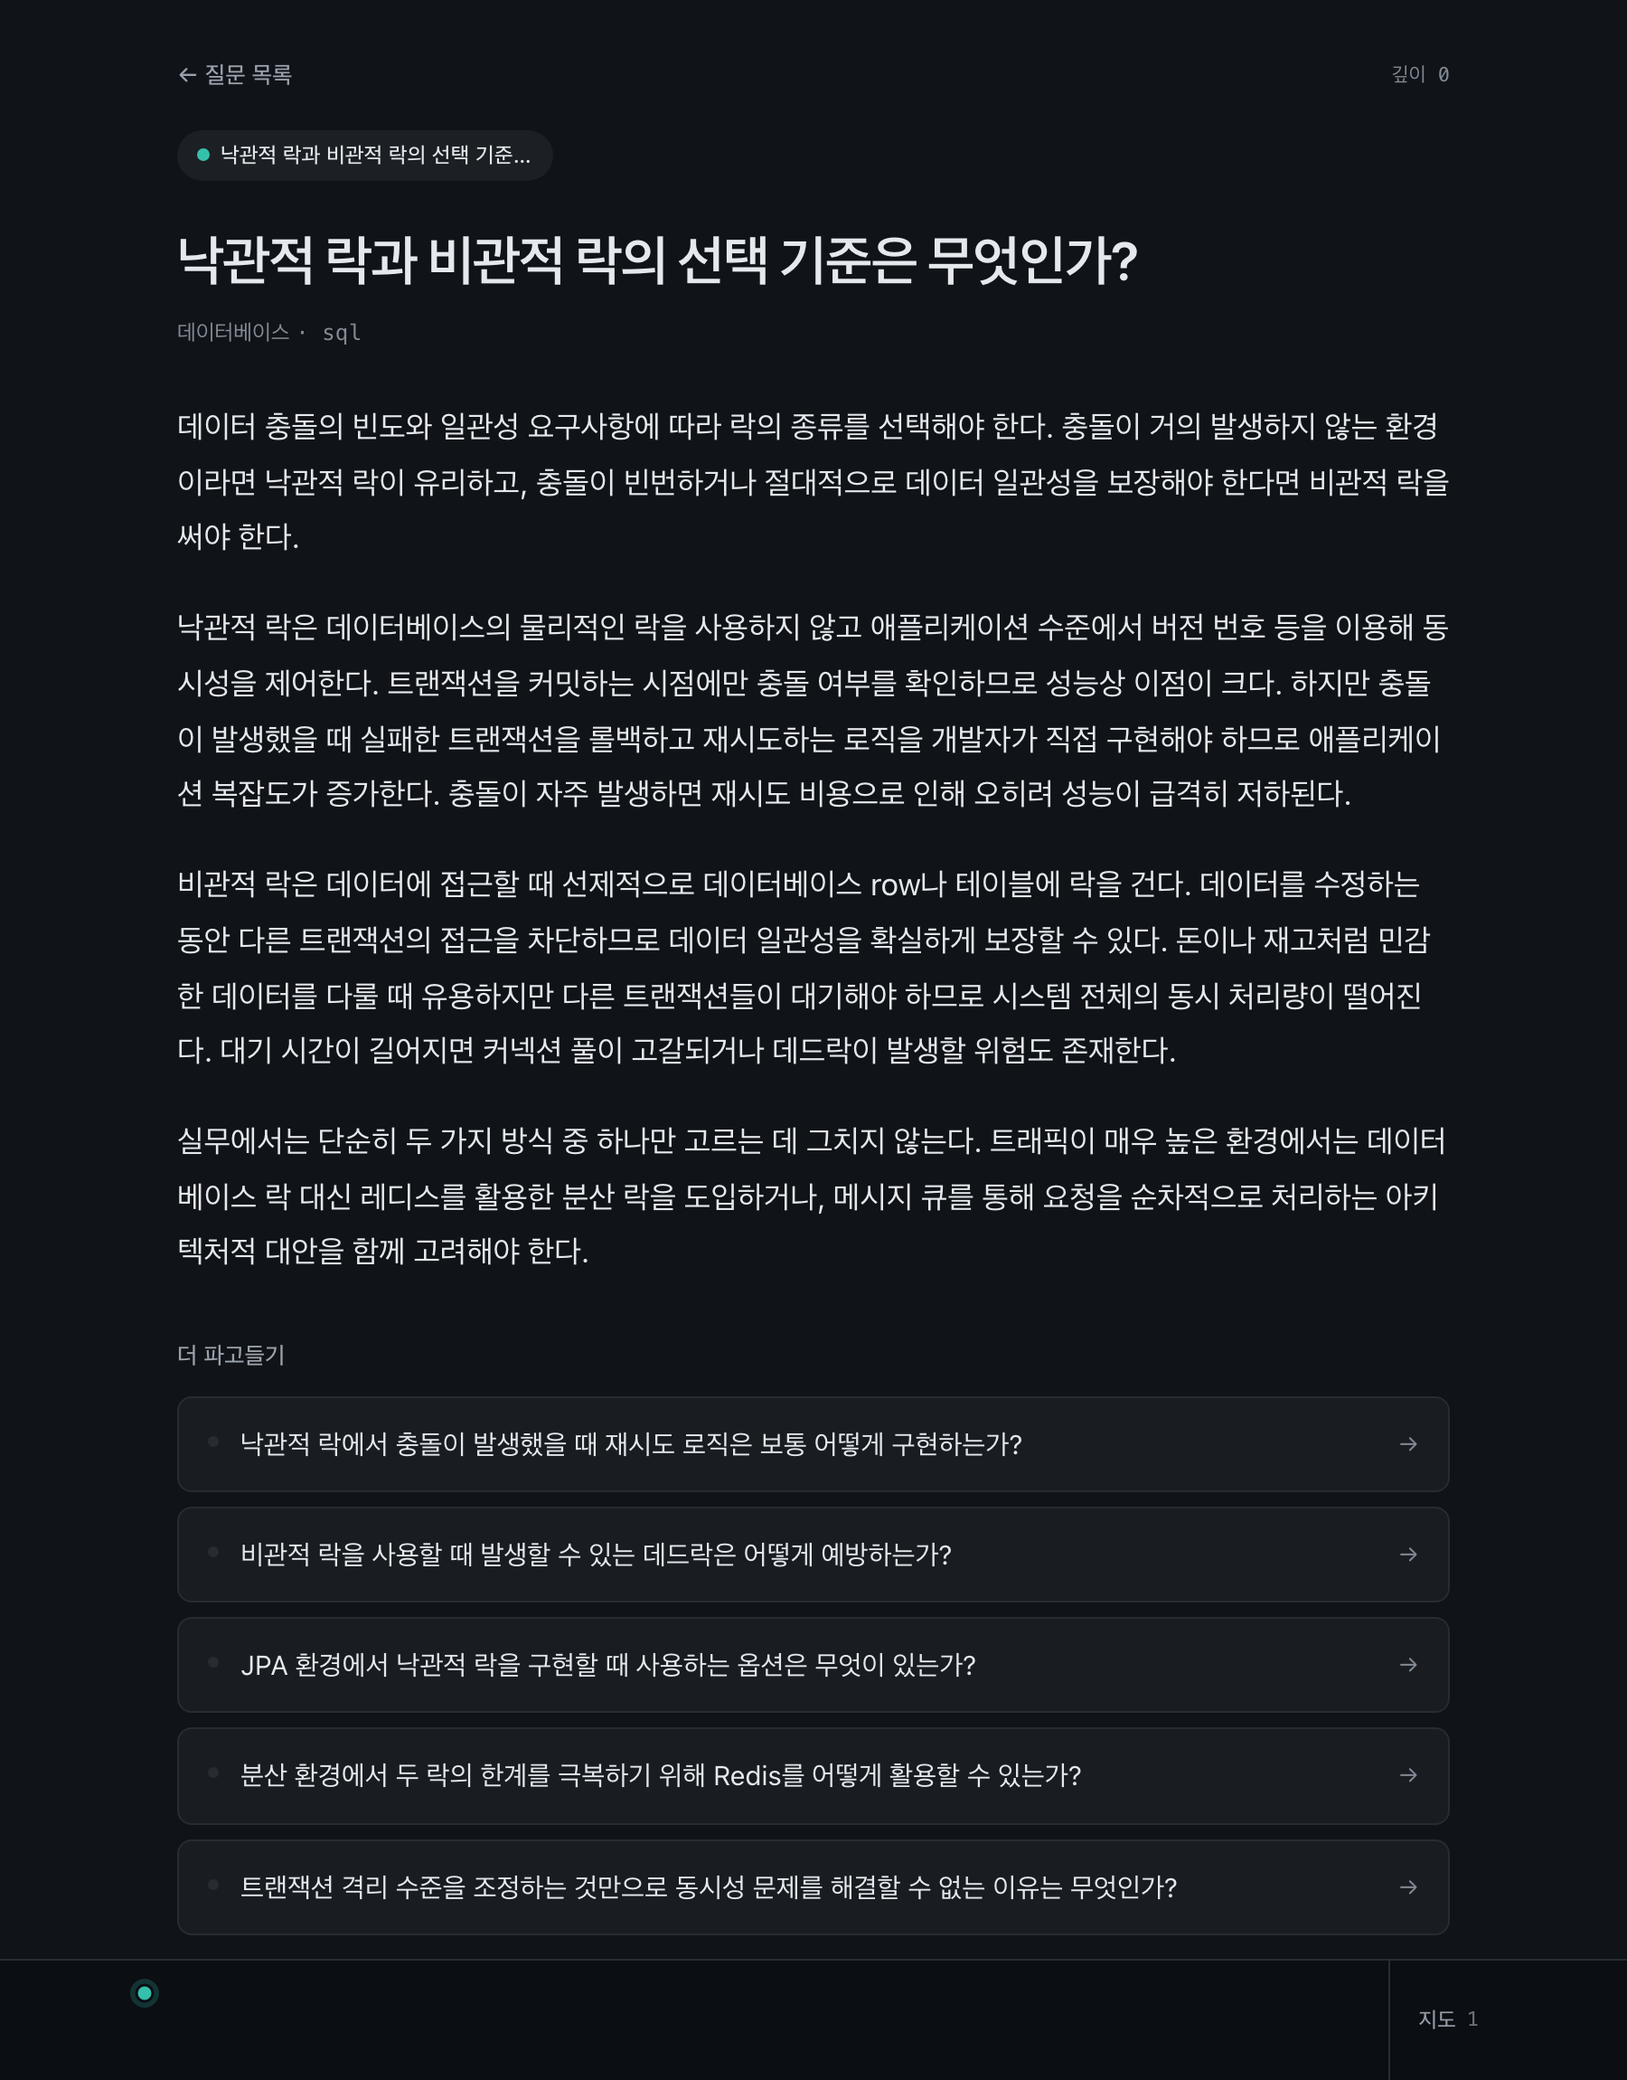
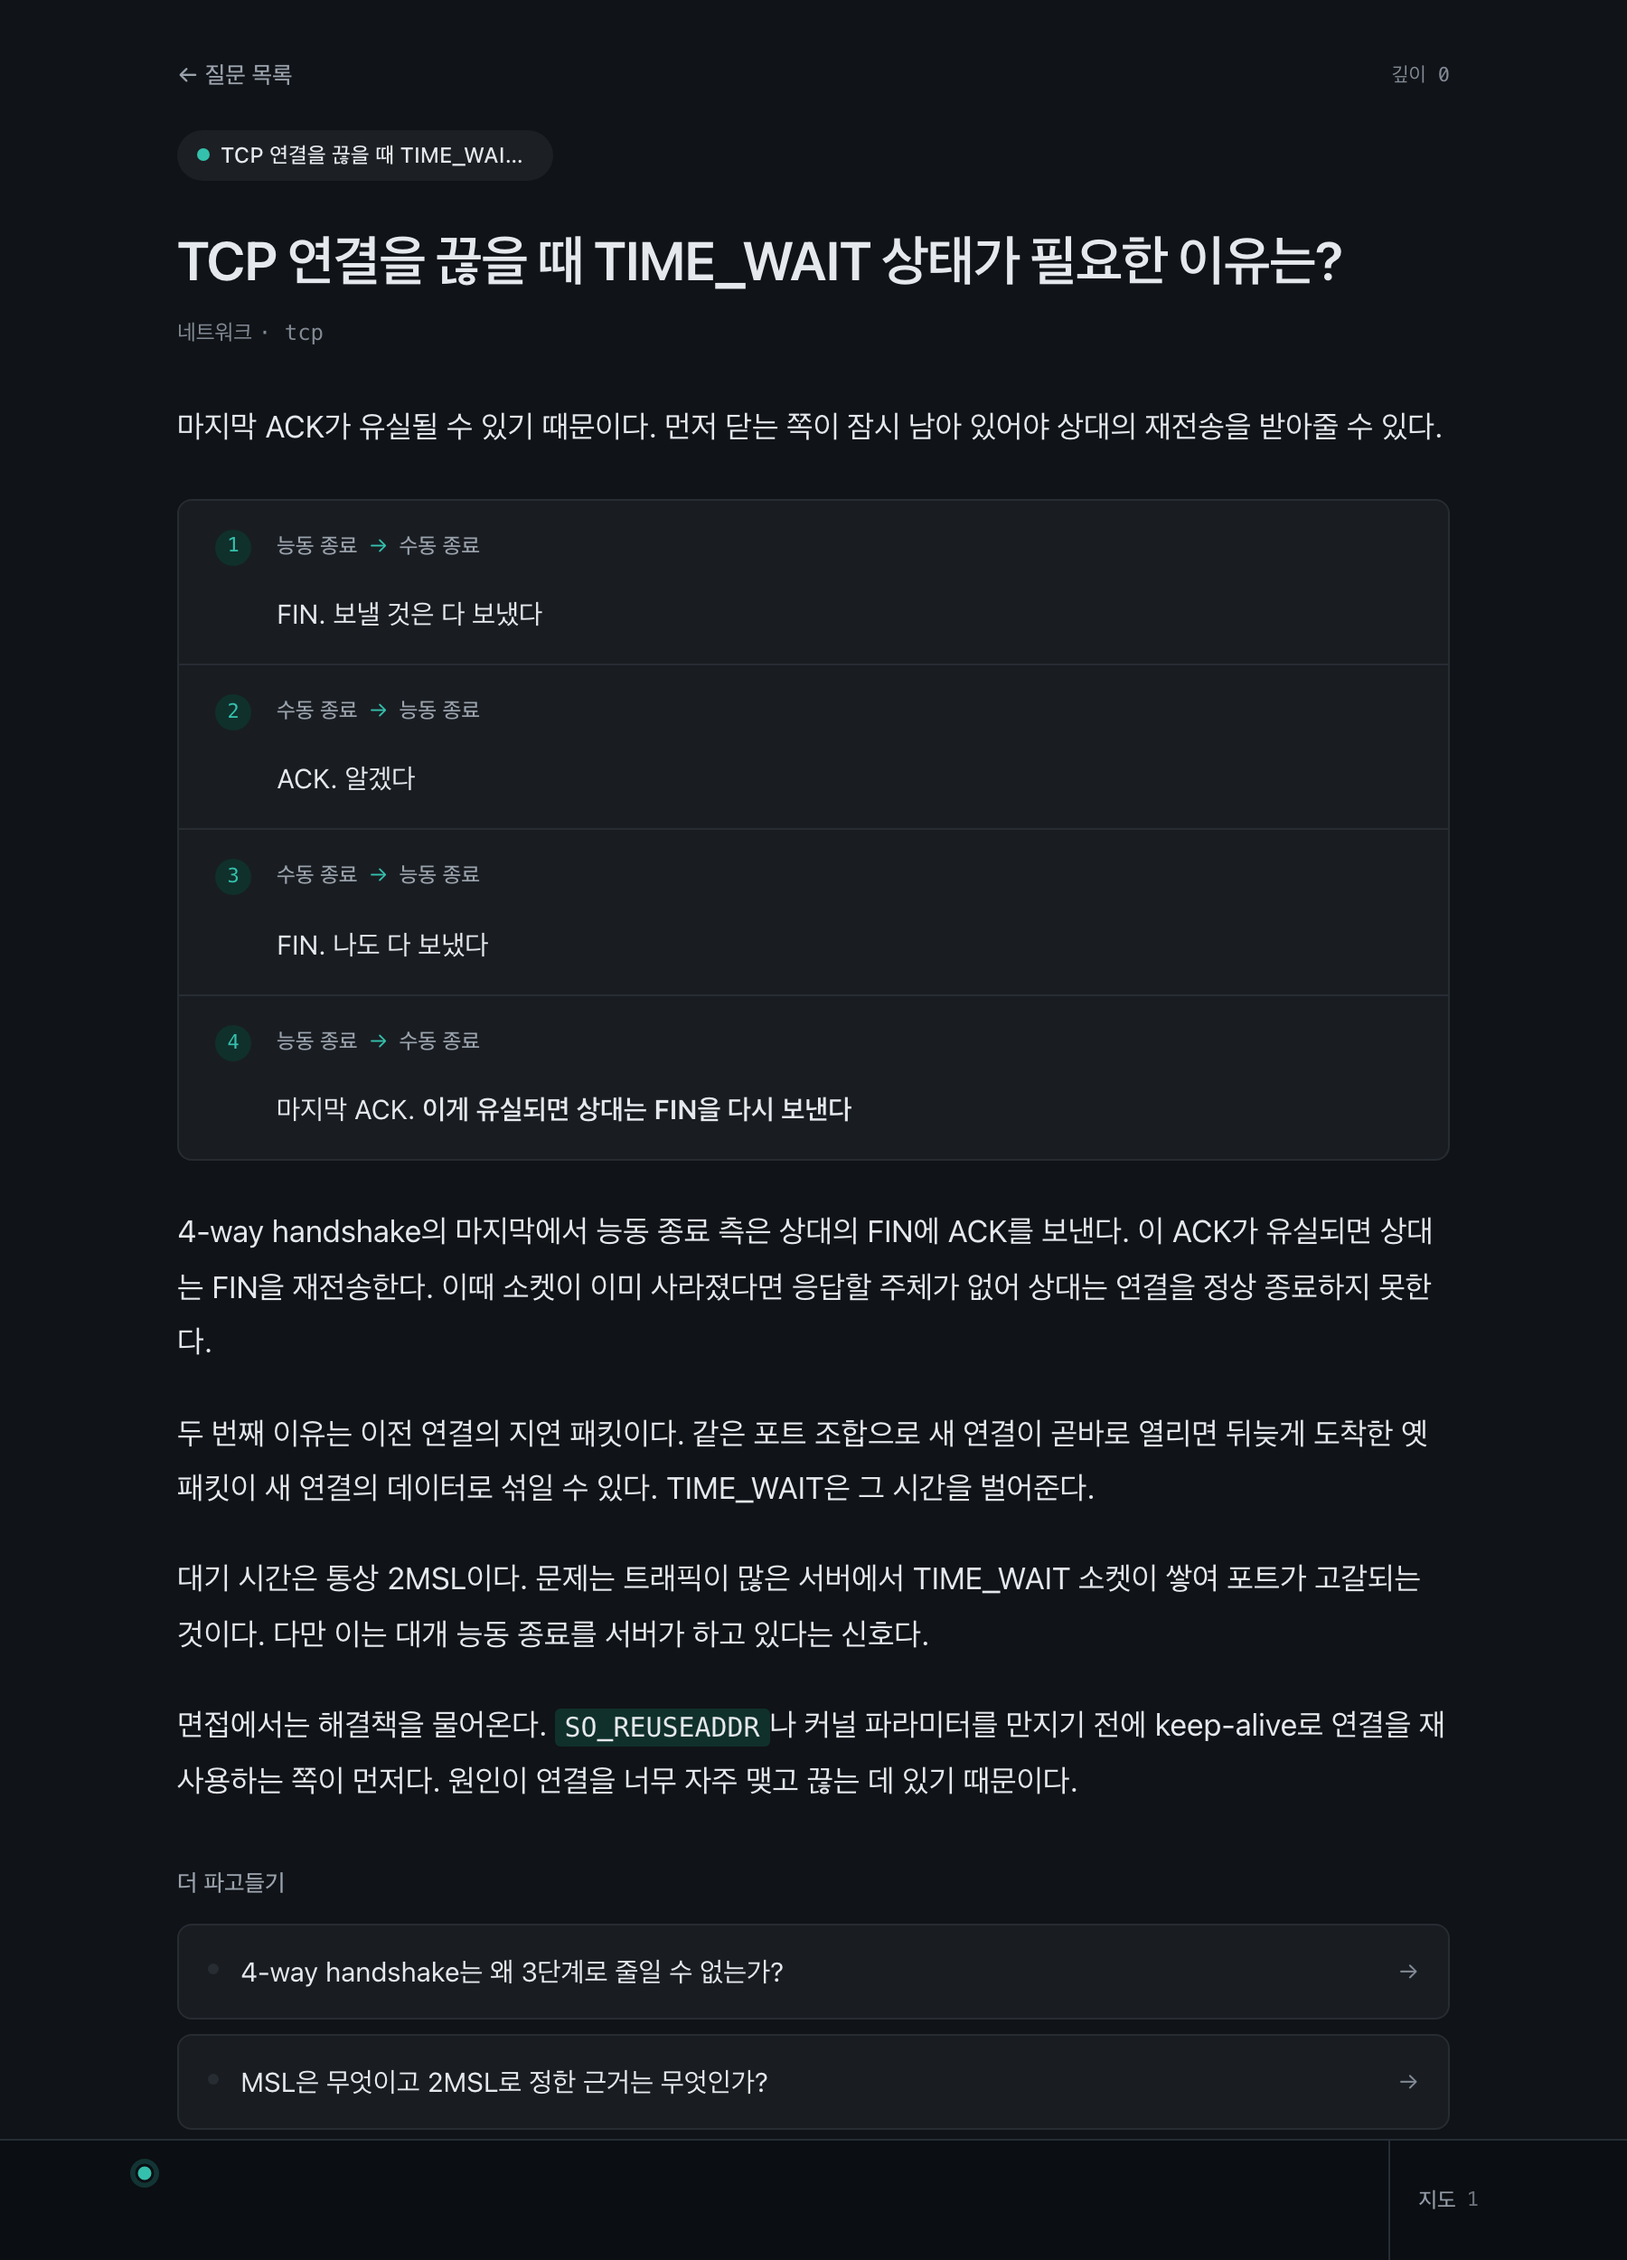
docs: 도식을 README에 싣고 스크린샷을 다시 찍는다
이미지가 전부 도식 이전 화면이었다. 읽기 뷰는 4-way handshake가 순서 도식으로
그려진 화면으로, 새로 넣은 도식 예시는 해시 테이블 해설로 바꿨다.

Mermaid를 안 쓴 이유와 파서가 본문을 먹지 않는다는 원칙을 적었다. 도식 채택률
실측(10/12, 기호 유출 0/12)도 별도 절로 넣었다 — 프롬프트를 고쳤다는 말만으로는
모델이 따르는지 알 수 없다.

Claude-Session: https://claude.ai/code/session_01XAxQJMEygFcXQwhKPxMg5n

diff --git a/README.md b/README.md
@@ -12,7 +12,15 @@
 
 질문을 누르면 해설과 꼬리질문 5개가 나온다. 그중 하나를 고르거나 직접 입력하면 거기서 또 다섯 갈래가 열린다. 깊이 제한은 없다.
 
-<img src="docs/screenshots/reading.png" width="820" alt="읽기 뷰. 해설 아래 꼬리질문 다섯 개가 붙고 하단에 지금까지 판 경로가 미니맵으로 보인다" />
+<img src="docs/screenshots/reading.png" width="820" alt="읽기 뷰. 4-way handshake가 번호 매긴 순서 도식으로 그려지고 아래로 해설과 꼬리질문이 이어진다" />
+
+**순서·계층·비교는 줄글로 두지 않는다.** 3-way handshake를 문장으로 읽으면 독자가 머리로 다시 그려야 한다. 해설 안에서 도식 세 가지를 쓴다 — 주고받는 차례는 `:::flow`, 쌓인 구조는 `:::stack`, 같은 잣대로 견주는 것은 표다.
+
+<img src="docs/screenshots/diagram.png" width="820" alt="해시 테이블 해설. 완화 방법 두 갈래가 표로 정리되어 있다" />
+
+Mermaid를 쓰지 않았다. SVG 문자열을 `innerHTML`로 넣어야 하는데 자유 입력이 전역 자산이 되는 구조라 그 경로를 아예 두지 않는 편이 낫고, 2.8MB짜리 의존성이 붙고, 생김새가 이 디자인과 겉돈다. 전부 React 요소로 그린다.
+
+파서의 첫째 성질은 **본문을 절대 먹지 않는 것**이다. 모델이 문법을 조금 틀렸다고 해설이 빈 화면이 되면 도식으로 얻은 것보다 잃는 것이 크다. 못 알아본 것은 문단으로 떨어지고, 어떤 이유로든 남은 울타리 기호는 화면에 닿기 전에 털어낸다.
 
 색이 곧 깊이다. 얕은 곳은 서늘한 청록이고 파고들수록 뜨거워진다. 장식이 아니라 경로 칩과 미니맵에서 "얼마나 팠는지"를 읽는 정보다.
 
@@ -71,6 +79,24 @@ npm run measure:match -- --set heldout --runs 3  # 홀드아웃
 
 **"완벽하다"고 읽으면 안 된다.** 게이트 호출 274건에서 오류가 0건이라는 뜻이고, 표본이 그만큼이면 실제 오류율의 신뢰상한은 1% 안팎이다. 두 세트 모두 같은 사람이 같은 방식으로 만들었다는 한계도 그대로 있다. 프롬프트를 고칠 일이 생기면 튜닝 세트에서 고치고 홀드아웃은 결과만 읽는다 — 홀드아웃을 보고 고치는 순간 홀드아웃이 아니게 된다.
 
+## 도식이 실제로 붙는지
+
+프롬프트만 고치고 넘어가면 모델이 따르는지 알 수 없다. 실호출로 잰다.
+
+```bash
+npm run measure:diagrams 2
+```
+
+| 지표 | 결과 |
+|---|---|
+| 도식이 붙은 해설 | 10/12 |
+| 기호가 샌 해설 | 0/12 |
+| 종류별 | flow 5 · table 3 · stack 2 |
+
+도식이 없는 2건은 정상이다. 넣을 것이 없으면 넣지 말라고 프롬프트에 적었고, 억지로 만든 도식은 없는 것보다 나쁘다.
+
+기호가 새는 쪽은 0이어야 한다. 도식을 못 그리는 것은 아쉬운 정도지만 `:::`가 화면에 보이는 것은 고장으로 읽힌다. 첫 측정에서 실제로 샜고, 원인은 모델이 매번 조금씩 다르게 쓰는 것이었다 — `::: flow`로 띄우거나, 여는 줄 뒤에 설명을 붙이거나, `:::end`로 닫는다.
+
 ## 동시성 검증
 
 테스트는 PGlite로 돈다. Postgres를 WASM으로 컴파일한 것이라 의미론은 같지만 **연결이 하나뿐이라 진짜 경합이 재현되지 않는다.** 행 잠금과 `on conflict` 경합은 순차 정합성만 증명된다.
@@ -97,7 +123,7 @@ npm run verify:concurrency
 ```bash
 npm install
 npm run dev          # http://localhost:3000
-npm test             # 430 tests
+npm test             # 457 tests
 npx tsc --noEmit
 ```
 
@@ -117,6 +143,7 @@ npx tsc --noEmit
 | `npm run db:republish -- [날짜]` | 잘못 뽑힌 발행분을 버리고 다시 뽑기 |
 | `npm run db:purge-stubs` | 키 없는 배포가 남긴 가짜 해설 정리 |
 | `npm run db:status` | 발행 이력과 남은 시드 일수 |
+| `npm run db:backfill-links` | 이미 판 꼬리질문을 결과 노드와 잇기 |
 | `npm run verify:concurrency` | 실제 Postgres에 동시 요청을 던져 잠금이 도는지 확인 |
 
 ## 무료 티어로 돈다
